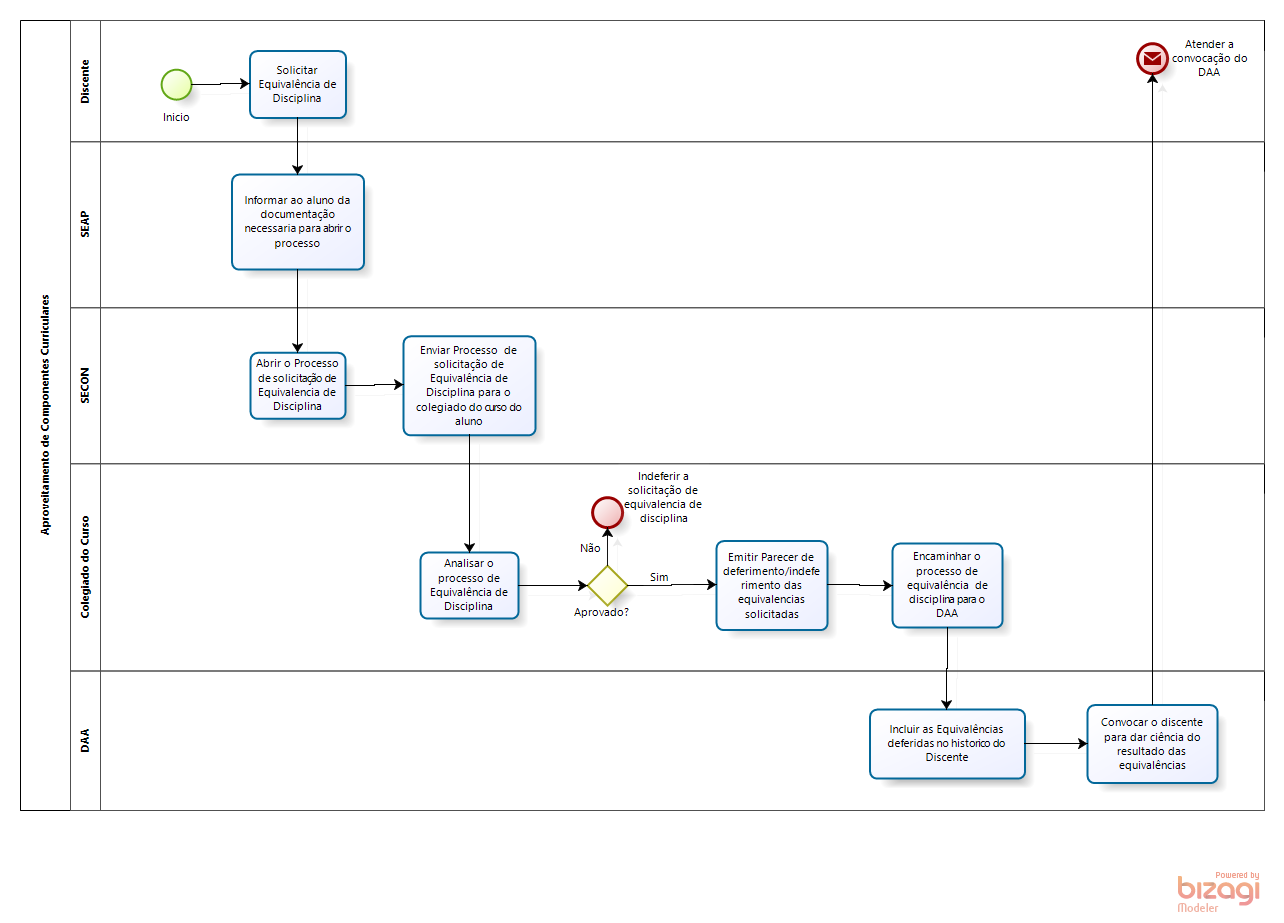
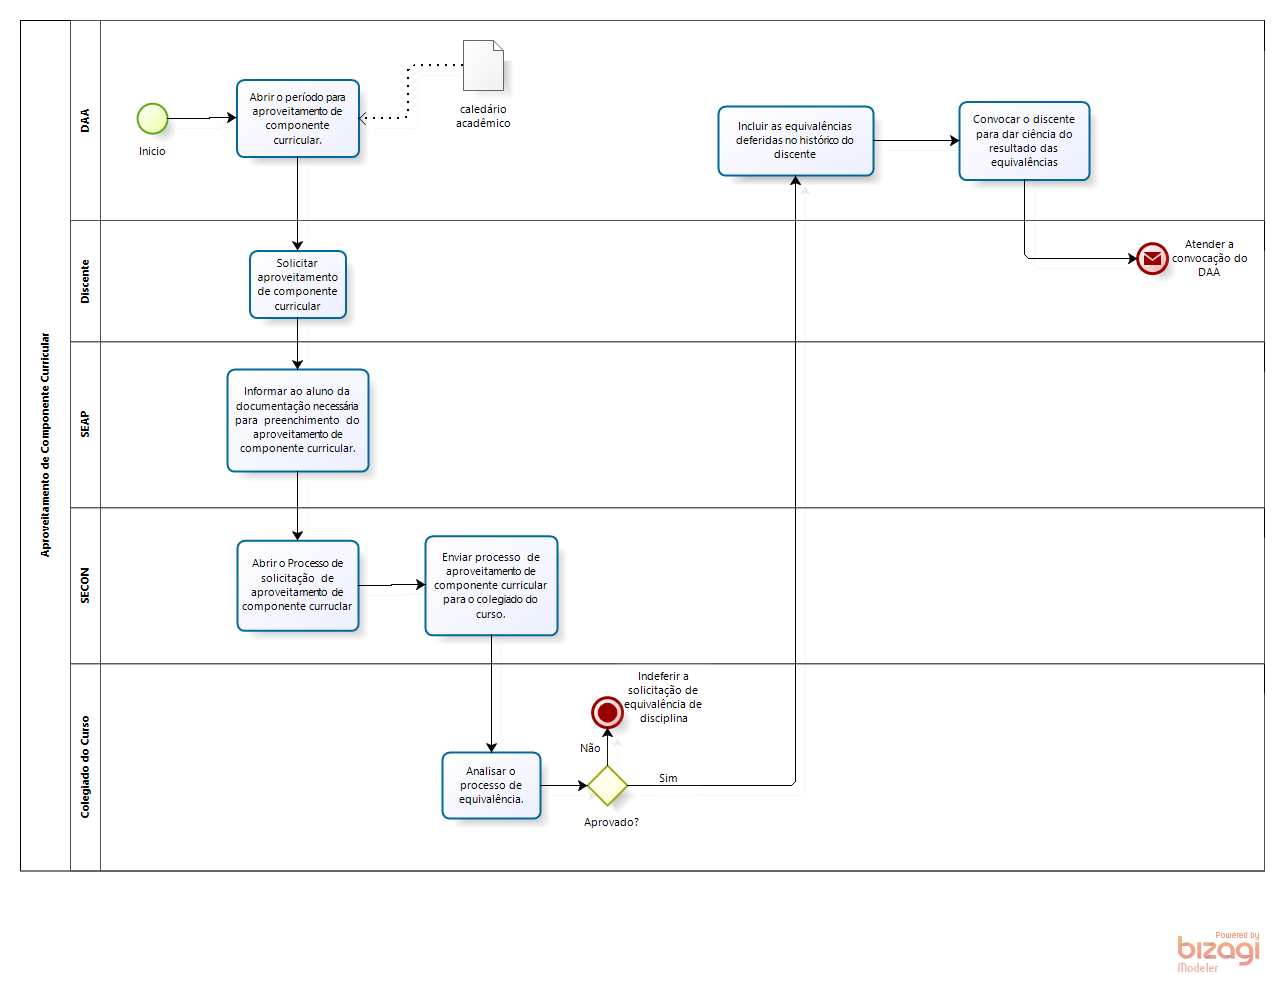
atualizado o index do Aproveitamento de Componentes Curriculares

diff --git a/docs/ChefiaDepartamental/SITE/Aproveitamento de Componentes Curriculares/libs/js/json/configuration.json.js b/docs/ChefiaDepartamental/SITE/Aproveitamento de Componentes Curriculares/libs/js/json/configuration.json.js
@@ -1,1 +1,1 @@
-Bizagi.AppModel = {"personalized":false,"userLogoName":"\\libs\\img\\biz-ex-logo.png","bizagiUrl":"http://www.bizagi.com","productName":"Bizagi Process Modeler","modelName":"Aproveitamento de Componente Curricular","publishDate":"01/08/2019 17:45:13","pages":[{"id":"dc39d0b4-e96d-42bd-8908-c36b75c48254","name":"Aproveitamento de Componentes Curriculares","version":"1.0","author":"Emeson","image":"files\\diagrams\\Aproveitamento_de_Componentes_Curriculares.png","isSubprocessPage":false,"elements":[{"id":"8fa47bfc-e88b-44bf-87c8-b840d99960af","name":"Aproveitamento de Componentes Curriculares","elementImage":"files\\bpmnElements\\Participant.png","imageBounds":{"points":[{"x":20.0,"y":20.0}],"radius":0.0,"height":790.0,"width":50.0,"shape":"rect"},"elementType":"Participant","pageElements":[{"id":"1f618014-1e37-4957-ae97-630ee1a256cf","name":"Inicio","elementImage":"files\\bpmnElements\\NoneStart.png","imageBounds":{"points":[{"x":161.0,"y":69.0}],"radius":15.0,"height":30.0,"width":30.0,"shape":"circle"},"elementType":"NoneStart"},{"id":"ff310714-43e0-4d0a-811b-c05012581c64","name":"Solicitar Equivalência de Disciplina","elementImage":"files\\bpmnElements\\AbstractTask.png","imageBounds":{"points":[{"x":249.5,"y":50.5}],"radius":0.0,"height":67.0,"width":96.0,"shape":"rect"},"elementType":"AbstractTask","properties":[]},{"id":"c0582ccf-3eb8-42c6-af57-ba72e397b4cf","name":"Informar ao aluno da documentação necessaria para abrir o processo","elementImage":"files\\bpmnElements\\AbstractTask.png","imageBounds":{"points":[{"x":231.5,"y":174.0}],"radius":0.0,"height":95.0,"width":132.0,"shape":"rect"},"elementType":"AbstractTask","properties":[]},{"id":"6653de51-5b14-4187-a9f8-6a920fd543b3","name":"Abrir o Processo de solicitação de Equivalencia de Disciplina","elementImage":"files\\bpmnElements\\AbstractTask.png","imageBounds":{"points":[{"x":250.0,"y":352.199951}],"radius":0.0,"height":66.0,"width":95.0,"shape":"rect"},"elementType":"AbstractTask","properties":[]},{"id":"c189a071-3163-4815-8fe2-387a7f949a5b","name":"Enviar Processo  de solicitação de Equivalência de Disciplina para o colegiado do curso do aluno","elementImage":"files\\bpmnElements\\AbstractTask.png","imageBounds":{"points":[{"x":403.0,"y":335.699951}],"radius":0.0,"height":99.0,"width":132.0,"shape":"rect"},"elementType":"AbstractTask","properties":[]},{"id":"9f165670-ac66-472b-aa1e-8123024b225b","name":"Analisar o processo de Equivalência de Disciplina","elementImage":"files\\bpmnElements\\AbstractTask.png","imageBounds":{"points":[{"x":420.0,"y":552.0}],"radius":0.0,"height":66.0,"width":98.0,"shape":"rect"},"elementType":"AbstractTask","properties":[]},{"id":"10bfaee1-b3b4-40b7-a4f0-9a7b4135992d","name":"Aprovado? ","elementImage":"files\\bpmnElements\\ExclusiveGateway.png","imageBounds":{"points":[{"x":587.0,"y":565.0}],"radius":0.0,"height":40.0,"width":40.0,"shape":"poly"},"elementType":"ExclusiveGateway","properties":[],"pageElements":[{"name":"Sim","elementType":"SequenceFlow","properties":[]},{"name":"Não","elementType":"SequenceFlow","properties":[]}]},{"id":"4261f5d7-1d6c-4132-a7ec-d669a72da012","name":"Emitir Parecer de deferimento/indeferimento das equivalencias solicitadas","description":"<p style=\"text-align:left;text-indent:0pt;margin:0pt 0pt 0pt 0pt;\"><span style=\"color:#000000;background-color:transparent;font-family:Segoe UI;font-size:8pt;font-weight:normal;font-style:normal;\">Anexar Um modelo de parecer aqui</span></p>","elementImage":"files\\bpmnElements\\AbstractTask.png","imageBounds":{"points":[{"x":716.0,"y":540.5}],"radius":0.0,"height":89.0,"width":111.0,"shape":"rect"},"elementType":"AbstractTask","properties":[]},{"id":"9827b9db-24a0-43fa-91ab-70735beee162","name":"Encaminhar o processo de equivalência  de disciplina para o DAA","elementImage":"files\\bpmnElements\\AbstractTask.png","imageBounds":{"points":[{"x":892.0,"y":543.0}],"radius":0.0,"height":84.0,"width":110.0,"shape":"rect"},"elementType":"AbstractTask","properties":[]},{"id":"b4ea6f67-3183-491b-a609-9ccb9c029085","name":"Incluir as Equivalências deferidas no historico do Discente","elementImage":"files\\bpmnElements\\AbstractTask.png","imageBounds":{"points":[{"x":869.5,"y":709.0}],"radius":0.0,"height":69.0,"width":155.0,"shape":"rect"},"elementType":"AbstractTask","properties":[]},{"id":"8d40f293-d694-4efd-ab56-3d657786d211","name":"Convocar o discente para dar ciência do resultado das equivalências","elementImage":"files\\bpmnElements\\AbstractTask.png","imageBounds":{"points":[{"x":1087.0,"y":704.5}],"radius":0.0,"height":78.0,"width":130.0,"shape":"rect"},"elementType":"AbstractTask","properties":[]},{"id":"0df563ce-7b93-4e60-bb89-06502506d2e0","name":"Atender a convocação do DAA","elementImage":"files\\bpmnElements\\MessageEnd.png","imageBounds":{"points":[{"x":1137.0,"y":43.0}],"radius":15.0,"height":30.0,"width":30.0,"shape":"circle"},"elementType":"MessageEnd","properties":[]},{"id":"ff2a2a21-21c9-4908-86a0-dc6dee6cb414","name":"Indeferir a solicitação de equivalencia de disciplina","elementImage":"files\\bpmnElements\\NoneEnd.png","imageBounds":{"points":[{"x":592.0,"y":497.0}],"radius":15.0,"height":30.0,"width":30.0,"shape":"circle"},"elementType":"NoneEnd"},{"id":"98637810-9365-47a4-a5d4-36b22cd62093","name":"Discente","elementImage":"files\\bpmnElements\\Lane.png","imageBounds":{"points":[{"x":70.0,"y":20.0}],"radius":0.0,"height":121.2,"width":30.0,"shape":"rect"},"elementType":"Lane"},{"id":"80924f02-e2c8-4ace-a124-cb40491ad7be","name":"SEAP","elementImage":"files\\bpmnElements\\Lane.png","imageBounds":{"points":[{"x":70.0,"y":141.2}],"radius":0.0,"height":165.9,"width":30.0,"shape":"rect"},"elementType":"Lane"},{"id":"e5900b49-f16f-47d2-bdbb-92241aabbc98","name":"SECON","elementImage":"files\\bpmnElements\\Lane.png","imageBounds":{"points":[{"x":70.0,"y":307.099976}],"radius":0.0,"height":156.1,"width":30.0,"shape":"rect"},"elementType":"Lane"},{"id":"0ca9a491-9313-41ea-bfd2-41f78cff8c47","name":"Colegiado do Curso","elementImage":"files\\bpmnElements\\Lane.png","imageBounds":{"points":[{"x":70.0,"y":463.199982}],"radius":0.0,"height":207.3,"width":30.0,"shape":"rect"},"elementType":"Lane"},{"id":"f9289cb7-bb41-408c-b33e-48538a53e661","name":"DAA","elementImage":"files\\bpmnElements\\Lane.png","imageBounds":{"points":[{"x":70.0,"y":670.5}],"radius":0.0,"height":139.5,"width":30.0,"shape":"rect"},"elementType":"Lane"}]}]}],"texts":{"tableOfContents":"Índice","pageNumber":"Página","pageNumberLabelOf":"de","version":"Versão","author":"Autor","description":"Descrição","mainPool":"Processo principal","mainPoolDescription":"Processo principal Descrição","processDiagrams":"Processar os Diagramas","processElements":"Elementos do processo","elements":"Elementos do processo","defaultElementName":"Elemento","performers":"Executantes","connectors":"Conectores","connector":"Conector","home":"Principal","search":"Pesquisar","goToParentProcess":"<< Ir para Matriz","visitBizagi":"Visite bizagi.com","contains":"Contém {0} subprocessos","showAll":"Show all","fullScreen":"Tela inteira","zoomIn":"Ampliar","zoomOut":"Reduzir","close":"Fechar","menu":"Menu: ","errorPage":"Erro ao visualizar a página","process":"Proceso","subProcess":"Subprocessos publicados","contain":"Contém","checkAttributes":"Ver atributos","checkOverview":"Ver resumo","unavailableResource":"O recurso não está disponível","localResource":"O recurso pode ser acessado localmente","performer":"Executor","linktoimage":"Link para a  imagem","presentationAction":"Ações de apresentação","searchGlobal":"Busca todos","searchLocal":"Busca neste processo","searchResults":"Nenhum resultado encontrado","titlePage":"Start","emptyElement":"Este elemento ainda não foi documentado","unsupported":"Seu navegador não suporta conteúdo exibido por esta página. <br> Recomendamos que você atualizar o seu navegador.","details":"Detalhes","expand":"Expandir","mainPoolProperties":"Propriedades do Processo principal","cannotVisualize":"The page cannot be displayed","resourceNotFound":"The requested resource was not found:"},"searchMap":[{"containerId":"dc39d0b4-e96d-42bd-8908-c36b75c48254","containerName":"Aproveitamento de Componentes Curriculares","isSubprocess":false,"elements":[{"id":"8fa47bfc-e88b-44bf-87c8-b840d99960af","value":"Aproveitamento de Componentes Curriculares"},{"id":"98637810-9365-47a4-a5d4-36b22cd62093","value":"Discente"},{"id":"80924f02-e2c8-4ace-a124-cb40491ad7be","value":"SEAP"},{"id":"e5900b49-f16f-47d2-bdbb-92241aabbc98","value":"SECON"},{"id":"0ca9a491-9313-41ea-bfd2-41f78cff8c47","value":"Colegiado do Curso"},{"id":"f9289cb7-bb41-408c-b33e-48538a53e661","value":"DAA"},{"id":"1f618014-1e37-4957-ae97-630ee1a256cf","value":"Inicio"},{"id":"ff310714-43e0-4d0a-811b-c05012581c64","value":"Solicitar Equivalência de Disciplina"},{"id":"6653de51-5b14-4187-a9f8-6a920fd543b3","value":"Abrir o Processo de solicitação de Equivalencia de Disciplina"},{"id":"c189a071-3163-4815-8fe2-387a7f949a5b","value":"Enviar Processo  de solicitação de Equivalência de Disciplina para o colegiado do curso do aluno"},{"id":"9f165670-ac66-472b-aa1e-8123024b225b","value":"Analisar o processo de Equivalência de Disciplina"},{"id":"c0582ccf-3eb8-42c6-af57-ba72e397b4cf","value":"Informar ao aluno da documentação necessaria para abrir o processo"},{"id":"4261f5d7-1d6c-4132-a7ec-d669a72da012","value":"Emitir Parecer de deferimento/indeferimento das equivalencias solicitadas"},{"id":"9827b9db-24a0-43fa-91ab-70735beee162","value":"Encaminhar o processo de equivalência  de disciplina para o DAA"},{"id":"b4ea6f67-3183-491b-a609-9ccb9c029085","value":"Incluir as Equivalências deferidas no historico do Discente"},{"id":"10bfaee1-b3b4-40b7-a4f0-9a7b4135992d","value":"Aprovado? "},{"id":"ff2a2a21-21c9-4908-86a0-dc6dee6cb414","value":"Indeferir a solicitação de equivalencia de disciplina"},{"id":"0df563ce-7b93-4e60-bb89-06502506d2e0","value":"Atender a convocação do DAA"},{"id":"8d40f293-d694-4efd-ab56-3d657786d211","value":"Convocar o discente para dar ciência do resultado das equivalências"}]}]}
+Bizagi.AppModel = {"personalized":false,"userLogoName":"\\libs\\img\\biz-ex-logo.png","bizagiUrl":"http://www.bizagi.com","productName":"Bizagi Process Modeler","modelName":"Aproveitamento de Componente Curricular","publishDate":"25/11/2019 11:08:30","pages":[{"id":"dc39d0b4-e96d-42bd-8908-c36b75c48254","name":"Aproveitamento de Componentes Curriculares","version":"1.0","author":"Emeson","image":"files\\diagrams\\Aproveitamento_de_Componentes_Curriculares.png","isSubprocessPage":false,"elements":[{"id":"8fa47bfc-e88b-44bf-87c8-b840d99960af","name":"Aproveitamento de Componente Curricular","elementImage":"files\\bpmnElements\\Participant.png","imageBounds":{"points":[{"x":20.0,"y":20.0}],"radius":0.0,"height":850.5,"width":50.0,"shape":"rect"},"elementType":"Participant","pageElements":[{"id":"1f618014-1e37-4957-ae97-630ee1a256cf","name":"Inicio","elementImage":"files\\bpmnElements\\NoneStart.png","imageBounds":{"points":[{"x":137.0,"y":103.0}],"radius":15.0,"height":30.0,"width":30.0,"shape":"circle"},"elementType":"NoneStart"},{"id":"66da2524-3132-400d-acfb-7ef299c3e694","name":"Abrir o período para aproveitamento de componente curricular.","elementImage":"files\\bpmnElements\\AbstractTask.png","imageBounds":{"points":[{"x":236.5,"y":79.5}],"radius":0.0,"height":77.0,"width":122.0,"shape":"rect"},"elementType":"AbstractTask","properties":[]},{"id":"ff310714-43e0-4d0a-811b-c05012581c64","name":"Solicitar aproveitamento de componente curricular","elementImage":"files\\bpmnElements\\AbstractTask.png","imageBounds":{"points":[{"x":249.5,"y":250.5}],"radius":0.0,"height":67.0,"width":96.0,"shape":"rect"},"elementType":"AbstractTask","properties":[]},{"id":"c0582ccf-3eb8-42c6-af57-ba72e397b4cf","name":"Informar ao aluno da documentação necessária para  preenchimento  do  aproveitamento de componente curricular.","elementImage":"files\\bpmnElements\\AbstractTask.png","imageBounds":{"points":[{"x":227.0,"y":369.0}],"radius":0.0,"height":102.0,"width":141.0,"shape":"rect"},"elementType":"AbstractTask","properties":[]},{"id":"6653de51-5b14-4187-a9f8-6a920fd543b3","name":"Abrir o Processo de solicitação  de aproveitamento  de componente curruclar","elementImage":"files\\bpmnElements\\AbstractTask.png","imageBounds":{"points":[{"x":237.0,"y":540.199951}],"radius":0.0,"height":90.0,"width":121.0,"shape":"rect"},"elementType":"AbstractTask","properties":[]},{"id":"c189a071-3163-4815-8fe2-387a7f949a5b","name":"Enviar processo  de aproveitamento de componente curricular para o colegiado do curso.","elementImage":"files\\bpmnElements\\AbstractTask.png","imageBounds":{"points":[{"x":425.0,"y":535.699951}],"radius":0.0,"height":99.0,"width":132.0,"shape":"rect"},"elementType":"AbstractTask","properties":[]},{"id":"9f165670-ac66-472b-aa1e-8123024b225b","name":"Analisar o processo de equivalência.","elementImage":"files\\bpmnElements\\AbstractTask.png","imageBounds":{"points":[{"x":442.0,"y":752.0}],"radius":0.0,"height":66.0,"width":98.0,"shape":"rect"},"elementType":"AbstractTask","properties":[]},{"id":"10bfaee1-b3b4-40b7-a4f0-9a7b4135992d","name":"Aprovado? ","elementImage":"files\\bpmnElements\\ExclusiveGateway.png","imageBounds":{"points":[{"x":587.0,"y":765.0}],"radius":0.0,"height":40.0,"width":40.0,"shape":"poly"},"elementType":"ExclusiveGateway","properties":[],"pageElements":[{"name":"Sim","elementType":"SequenceFlow","properties":[]},{"name":"Não","elementType":"SequenceFlow","properties":[]}]},{"id":"b4ea6f67-3183-491b-a609-9ccb9c029085","name":"Incluir as equivalências deferidas no histórico do discente","elementImage":"files\\bpmnElements\\AbstractTask.png","imageBounds":{"points":[{"x":718.0,"y":106.0}],"radius":0.0,"height":69.0,"width":155.0,"shape":"rect"},"elementType":"AbstractTask","properties":[]},{"id":"8d40f293-d694-4efd-ab56-3d657786d211","name":"Convocar o discente para dar ciência do resultado das equivalências","elementImage":"files\\bpmnElements\\AbstractTask.png","imageBounds":{"points":[{"x":959.0,"y":101.5}],"radius":0.0,"height":78.0,"width":130.0,"shape":"rect"},"elementType":"AbstractTask","properties":[]},{"id":"0df563ce-7b93-4e60-bb89-06502506d2e0","name":"Atender a convocação do DAA","elementImage":"files\\bpmnElements\\MessageEnd.png","imageBounds":{"points":[{"x":1137.0,"y":243.0}],"radius":15.0,"height":30.0,"width":30.0,"shape":"circle"},"elementType":"MessageEnd","properties":[]},{"id":"ff2a2a21-21c9-4908-86a0-dc6dee6cb414","name":"Indeferir a solicitação de equivalência de disciplina","elementImage":"files\\bpmnElements\\TerminateEnd.png","imageBounds":{"points":[{"x":592.0,"y":697.0}],"radius":15.0,"height":30.0,"width":30.0,"shape":"circle"},"elementType":"TerminateEnd","properties":[]},{"id":"40dd3843-0b2a-4c2e-840f-65b27167014e","name":"caledário acadêmico","elementImage":"files\\bpmnElements\\DataObject.png","imageBounds":{"points":[{"x":463.0,"y":40.0}],"radius":0.0,"height":50.0,"width":40.0,"shape":"rect"},"elementType":"DataObject","properties":[{"name":"Estado","type":"text"}]},{"id":"dc00c863-925c-410c-8ec7-9f746f2eb54c","name":"DAA","elementImage":"files\\bpmnElements\\Lane.png","imageBounds":{"points":[{"x":70.0,"y":20.0}],"radius":0.0,"height":200.0,"width":30.0,"shape":"rect"},"elementType":"Lane"},{"id":"98637810-9365-47a4-a5d4-36b22cd62093","name":"Discente","elementImage":"files\\bpmnElements\\Lane.png","imageBounds":{"points":[{"x":70.0,"y":220.0}],"radius":0.0,"height":121.2,"width":30.0,"shape":"rect"},"elementType":"Lane"},{"id":"80924f02-e2c8-4ace-a124-cb40491ad7be","name":"SEAP","elementImage":"files\\bpmnElements\\Lane.png","imageBounds":{"points":[{"x":70.0,"y":341.2}],"radius":0.0,"height":165.9,"width":30.0,"shape":"rect"},"elementType":"Lane"},{"id":"e5900b49-f16f-47d2-bdbb-92241aabbc98","name":"SECON","elementImage":"files\\bpmnElements\\Lane.png","imageBounds":{"points":[{"x":70.0,"y":507.1}],"radius":0.0,"height":156.1,"width":30.0,"shape":"rect"},"elementType":"Lane"},{"id":"0ca9a491-9313-41ea-bfd2-41f78cff8c47","name":"Colegiado do Curso","elementImage":"files\\bpmnElements\\Lane.png","imageBounds":{"points":[{"x":70.0,"y":663.2}],"radius":0.0,"height":207.3,"width":30.0,"shape":"rect"},"elementType":"Lane"}]}]}],"texts":{"tableOfContents":"Índice","pageNumber":"Página","pageNumberLabelOf":"de","version":"Versão","author":"Autor","description":"Descrição","mainPool":"Processo principal","mainPoolDescription":"Processo principal Descrição","processDiagrams":"Processar os Diagramas","processElements":"Elementos do processo","elements":"Elementos do processo","defaultElementName":"Elemento","performers":"Executantes","connectors":"Conectores","connector":"Conector","home":"Principal","search":"Pesquisar","goToParentProcess":"<< Ir para Matriz","visitBizagi":"Visite bizagi.com","contains":"Contém {0} subprocessos","showAll":"Show all","fullScreen":"Tela inteira","zoomIn":"Ampliar","zoomOut":"Reduzir","close":"Fechar","menu":"Menu: ","errorPage":"Erro ao visualizar a página","process":"Proceso","subProcess":"Subprocessos publicados","contain":"Contém","checkAttributes":"Ver atributos","checkOverview":"Ver resumo","unavailableResource":"O recurso não está disponível","localResource":"O recurso pode ser acessado localmente","performer":"Executor","linktoimage":"Link para a  imagem","presentationAction":"Ações de apresentação","searchGlobal":"Busca todos","searchLocal":"Busca neste processo","searchResults":"Nenhum resultado encontrado","titlePage":"Start","emptyElement":"Este elemento ainda não foi documentado","unsupported":"Seu navegador não suporta conteúdo exibido por esta página. <br> Recomendamos que você atualizar o seu navegador.","details":"Detalhes","expand":"Expandir","mainPoolProperties":"Propriedades do Processo principal","cannotVisualize":"The page cannot be displayed","resourceNotFound":"The requested resource was not found:"},"searchMap":[{"containerId":"dc39d0b4-e96d-42bd-8908-c36b75c48254","containerName":"Aproveitamento de Componentes Curriculares","isSubprocess":false,"elements":[{"id":"8fa47bfc-e88b-44bf-87c8-b840d99960af","value":"Aproveitamento de Componente Curricular"},{"id":"dc00c863-925c-410c-8ec7-9f746f2eb54c","value":"DAA"},{"id":"98637810-9365-47a4-a5d4-36b22cd62093","value":"Discente"},{"id":"80924f02-e2c8-4ace-a124-cb40491ad7be","value":"SEAP"},{"id":"e5900b49-f16f-47d2-bdbb-92241aabbc98","value":"SECON"},{"id":"0ca9a491-9313-41ea-bfd2-41f78cff8c47","value":"Colegiado do Curso"},{"id":"40dd3843-0b2a-4c2e-840f-65b27167014e","value":"caledário acadêmico"},{"id":"1f618014-1e37-4957-ae97-630ee1a256cf","value":"Inicio"},{"id":"ff310714-43e0-4d0a-811b-c05012581c64","value":"Solicitar aproveitamento de componente curricular"},{"id":"6653de51-5b14-4187-a9f8-6a920fd543b3","value":"Abrir o Processo de solicitação  de aproveitamento  de componente curruclar"},{"id":"c189a071-3163-4815-8fe2-387a7f949a5b","value":"Enviar processo  de aproveitamento de componente curricular para o colegiado do curso."},{"id":"9f165670-ac66-472b-aa1e-8123024b225b","value":"Analisar o processo de equivalência."},{"id":"c0582ccf-3eb8-42c6-af57-ba72e397b4cf","value":"Informar ao aluno da documentação necessária para  preenchimento  do  aproveitamento de componente curricular."},{"id":"b4ea6f67-3183-491b-a609-9ccb9c029085","value":"Incluir as equivalências deferidas no histórico do discente"},{"id":"10bfaee1-b3b4-40b7-a4f0-9a7b4135992d","value":"Aprovado? "},{"id":"0df563ce-7b93-4e60-bb89-06502506d2e0","value":"Atender a convocação do DAA"},{"id":"8d40f293-d694-4efd-ab56-3d657786d211","value":"Convocar o discente para dar ciência do resultado das equivalências"},{"id":"66da2524-3132-400d-acfb-7ef299c3e694","value":"Abrir o período para aproveitamento de componente curricular."},{"id":"ff2a2a21-21c9-4908-86a0-dc6dee6cb414","value":"Indeferir a solicitação de equivalência de disciplina"},{"id":"eb92383b-a87c-405b-b813-091474899804"}]}]}
